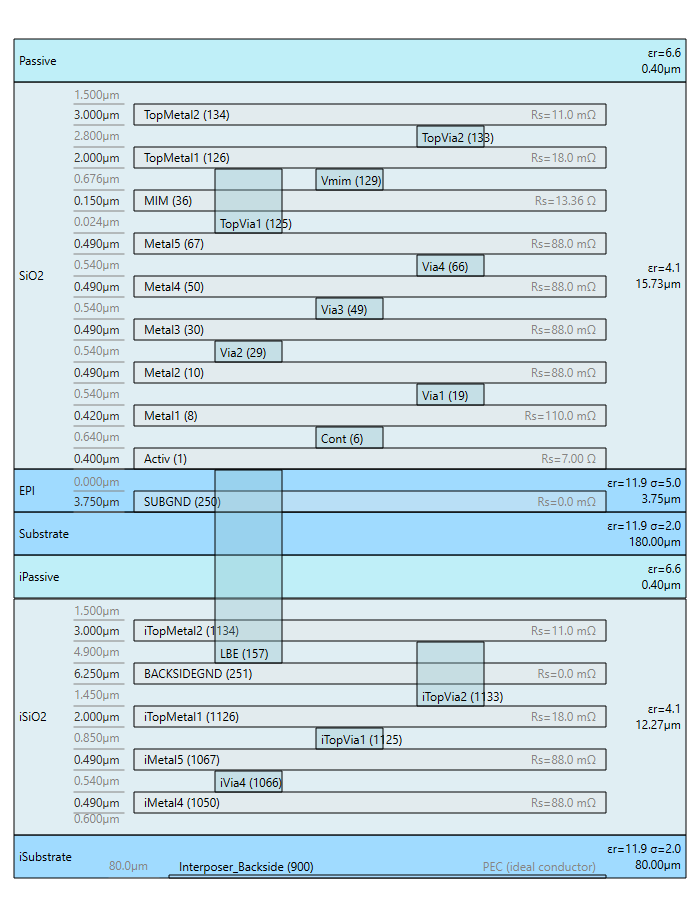
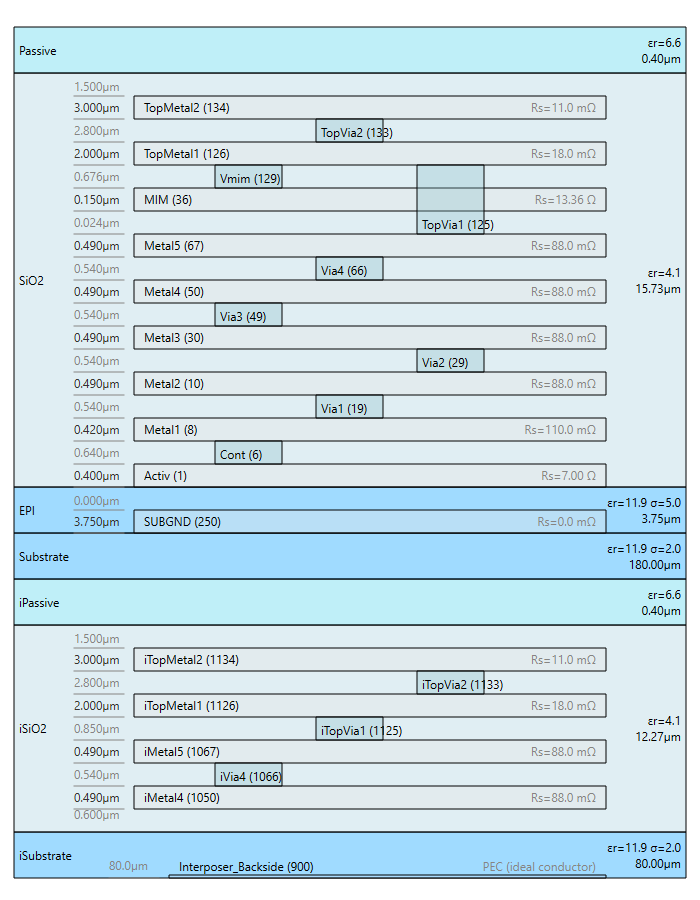
Anchor connection stacks to real pad metal, not the attach Dielectric's edge
A connection_stack's declared total height (from interconnect_methods.json)
is a pad-to-pad bump/pillar measurement, not a dielectric-surface-to-
dielectric-surface gap. Anchoring the via chain to --attach's own Dielectric
edge silently overstated the true gap by however thick each side's
passivation is (1.9 um on each side, in this repo's own examples).

compose() now finds the interposer's own topmost non-sheet metal and the
die's own bottommost non-sheet metal (after AIR-stripping/flip), and
extends only the via chain's own two outer Zmin/Zmax past the bondline's
own Bottom/Top to reach them - the bondline Dielectric and the die's own
first Dielectric are left untouched, since shifting either of those would
create a Dielectric-vs-Dielectric overlap find_z_overlaps() would flag. A
via overlapping a neighboring Dielectric is normal (same as any other via
embedded in its surrounding Dielectric).

Also removes SG13G2_die.xml's BACKSIDEGND/LBE layers: BACKSIDEGND used a
negative Zmin relative to Substrate's own Bottom edge that only made sense
in the die's own standalone frame (free space below the chip) - once
merged, Substrate's own Bottom becomes the attach interface, so
BACKSIDEGND ended up 6.25 um inside the interposer's own iPassive/iSiO2.
LBE existed only to connect to BACKSIDEGND, so it goes too.

Regenerated all three examples and their preview images.

diff --git a/src/chiplet_xml_composer/composer.py b/src/chiplet_xml_composer/composer.py
@@ -459,6 +459,35 @@ def _load_connection_materials (path):
     raise ComposeError(f'Could not parse --connection-materials file "{path}": {e}')
 
 
+def _topmost_metal (metals_list, context):
+  """The non-sheet metal with the highest resolved zmax in metals_list - the real conductor
+     surface a connection_stack's lower end should anchor to (a Type="sheet" Layer is a
+     zero-thickness idealized boundary condition, e.g. a PEC backside ground plane, never a
+     real bond pad, so it's excluded even if it happens to be the outermost element).
+  Args:
+      metals_list (gds2palace.stackup_reader.metal_layers_list): already-resolved metals
+      context (string): human-readable description of metals_list's owner, for the error message
+  Returns:
+      gds2palace.stackup_reader.metal_layer
+  Raises:
+      ComposeError: metals_list has no non-sheet metal at all
+  """
+  candidates = [m for m in metals_list.metals if not m.is_sheet]
+  if not candidates:
+    raise ComposeError(f'{context} has no non-sheet metal Layer for a connection_stack to '
+                        f'anchor to')
+  return max(candidates, key=lambda m: m.zmax)
+
+
+def _bottommost_metal (metals_list, context):
+  """The non-sheet metal with the lowest resolved zmin in metals_list - see _topmost_metal()."""
+  candidates = [m for m in metals_list.metals if not m.is_sheet]
+  if not candidates:
+    raise ComposeError(f'{context} has no non-sheet metal Layer for a connection_stack to '
+                        f'anchor to')
+  return min(candidates, key=lambda m: m.zmin)
+
+
 def _ensure_connection_material (base_materials_el, renamer, connection_materials,
                                   added_material_names, material_name, context):
   """Add a <Material> element for material_name, sourced from --connection-materials, unless
@@ -597,6 +626,10 @@ def compose (chiplet_path, stackup_map, interconnect_methods_path=None,
   base_path = stackup_path_for(interposer_component)
   base_tree = ET.parse(base_path)
   base_root = base_tree.getroot()
+  # parsed once, before any die is appended below, so a connection_stack's lower anchor (see
+  # _topmost_metal() below) always resolves against the interposer's own original metals -
+  # never against a metal an earlier die in this same compose() run just added
+  _, base_dielectrics, base_metals = stackup_reader.parse_substrate(base_root)
 
   chip_roots_by_id = {}
   for die in die_components:
@@ -640,6 +673,11 @@ def compose (chiplet_path, stackup_map, interconnect_methods_path=None,
       pivot_z = max(d.zmax for d in chip_dielectrics.dielectrics)
       reverse_stackup_z_order(chip_dielectrics, chip_metals, pivot_z)
 
+    # sorted once here (not just where the Dielectrics loop used to do it) - the connection-stack
+    # anchor below and the Dielectrics loop further down both need "this chiplet's own bottommost
+    # Dielectric", and both must agree on which one that is
+    ordered_dielectrics = sorted(chip_dielectrics.dielectrics, key=lambda d: d.zmin)
+
     # ---- connection stack: bridging Dielectric + one real via Layer per bump/pillar layer ----
     connection_id = die.get("connection")
     current_reference = attach_point
@@ -669,24 +707,53 @@ def compose (chiplet_path, stackup_map, interconnect_methods_path=None,
         bondline_el.set("Thickness", f"{total_height:.4f}")
         bondline_el.set("Boundary", str(int(boundary_layer)))
 
-        # each via/pillar layer is embedded WITHIN the bondline dielectric's own z-range - it
-        # represents the conductor body inside that dielectric, not something stacked on top
-        # of it (same convention as e.g. interposer_SG13G2.xml's own TopMetal2, embedded in
-        # SiO2 via Reference="SiO2" ReferenceEdge="Bottom"). Referenced off the bondline's own
-        # Bottom edge rather than off attach_point directly - numerically identical (the
-        # bondline's own zmin IS attach_point's zmax), but this keeps the via's Reference
-        # chain inside the chiplet's own subtree, so detect_chiplet_groups() scopes it to this
-        # chiplet instead of unconditionally treating it as interposer (see that function's
-        # docstring: a Layer referencing an interposer Dielectric directly is always
-        # interposer-scoped, regardless of where it physically sits)
+        # A connection_stack's declared total height is a pad-to-pad bump/pillar height, not a
+        # dielectric-surface-to-dielectric-surface gap - the via/pillar metal itself must reach
+        # the real conductor surface on each side, not just span the bondline's own nominal
+        # extent. Any passivation (or other dielectric) sitting between --attach's own Dielectric
+        # edge and the real pad metal is bridged by extending the via chain's own two outer ends
+        # past the bondline's own Bottom/Top - overlapping into the neighboring Dielectric on
+        # each side, same as any other via/metal embedded inside its surrounding Dielectric (see
+        # find_z_overlaps(), which only flags two overlapping DIELECTRICS, never a Layer
+        # overlapping one - a via reaching past its own bondline into the next Dielectric over is
+        # exactly as normal as iTopMetal2 sitting embedded inside iSiO2). The bondline Dielectric
+        # itself, and the die's own first Dielectric right above it, are deliberately left
+        # untouched - shifting either of *those* would create exactly the Dielectric-vs-Dielectric
+        # overlap find_z_overlaps() exists to catch. See
+        # HOW_IT_WORKS.md#connection-stack-pad-to-pad-anchoring.
+        attach_dielectric = base_dielectrics.get_by_name(attach_point)
+        if attach_dielectric is None:
+          raise ComposeError(
+              f'Component "{component_id}"\'s --attach target "{attach_point}" is not a '
+              f'Dielectric in the interposer\'s own stackup')
+        interposer_top_metal = _topmost_metal(base_metals, 'the interposer')
+        chip_bottom_metal = _bottommost_metal(
+            chip_metals, f'component "{component_id}"\'s own stackup')
+        gap_below_attach = attach_dielectric.zmax - interposer_top_metal.zmax
+        metal_offset_in_die = chip_bottom_metal.zmin - ordered_dielectrics[0].zmin
+
+        # each via/pillar layer is embedded WITHIN the bondline dielectric's own z-range, same
+        # convention as e.g. interposer_SG13G2.xml's own TopMetal2, embedded in SiO2 via
+        # Reference="SiO2" ReferenceEdge="Bottom" - except the very first layer's own Zmin and
+        # the very last layer's own Zmax are pulled past the bondline's own Bottom/Top by
+        # gap_below_attach/metal_offset_in_die respectively, to reach the real pad metal on each
+        # side. Referenced off the bondline's own Bottom edge rather than off attach_point
+        # directly - numerically identical (the bondline's own zmin IS attach_point's zmax), but
+        # this keeps the via's Reference chain inside the chiplet's own subtree, so
+        # detect_chiplet_groups() scopes it to this chiplet instead of unconditionally treating
+        # it as interposer (see that function's docstring: a Layer referencing an interposer
+        # Dielectric directly is always interposer-scoped, regardless of where it physically sits)
         via_offset_zmin = 0.0
-        for layer in stack_layers:
+        for i, layer in enumerate(stack_layers):
           _ensure_connection_material(
               base_materials_el, renamer, connection_materials, added_connection_material_names,
               layer["material"],
               f'connection_stack layer "{layer["name"]}" (method "{connection_id}")')
           via_name = _unique_name(renamer.layer_names, f"{component_id}_{layer['name']}")
           renamer.layer_names.add(via_name)
+          via_zmin = via_offset_zmin - (gap_below_attach if i == 0 else 0.0)
+          via_offset_zmin += layer["height"]
+          via_zmax = via_offset_zmin + (metal_offset_in_die if i == len(stack_layers) - 1 else 0.0)
           via_el = ET.SubElement(base_layers_el, "Layer")
           via_el.set("Name", via_name)
           via_el.set("Type", "VIA")
@@ -694,9 +761,8 @@ def compose (chiplet_path, stackup_map, interconnect_methods_path=None,
           via_el.set("Layer", str(layer["gds_layer"]))
           via_el.set("Reference", bondline_name)
           via_el.set("ReferenceEdge", "Bottom")
-          via_el.set("Zmin", f"{via_offset_zmin:.4f}")
-          via_el.set("Zmax", f"{via_offset_zmin + layer['height']:.4f}")
-          via_offset_zmin += layer["height"]
+          via_el.set("Zmin", f"{via_zmin:.4f}")
+          via_el.set("Zmax", f"{via_zmax:.4f}")
 
         current_reference = bondline_name
         current_edge = "Top"
@@ -716,7 +782,6 @@ def compose (chiplet_path, stackup_map, interconnect_methods_path=None,
     #      merge_chiplet_stackup.py's own approach, rather than trying to preserve/rewrite the
     #      chiplet's original Reference graph, which strip_outer_air_dielectrics()/
     #      reverse_stackup_z_order() only maintain at the resolved-object level ----
-    ordered_dielectrics = sorted(chip_dielectrics.dielectrics, key=lambda d: d.zmin)
     dielectric_new_names = {}
     for dielectric in ordered_dielectrics:
       new_name = renamer.rename_dielectric(dielectric.name)

diff --git a/doc/HOW_IT_WORKS.md b/doc/HOW_IT_WORKS.md
@@ -68,6 +68,12 @@ Here is what happens for each die:
    ReferenceEdge="Bottom"`. A bump or pillar physically sits inside its surrounding underfill,
    not above it.
 
+   The via chain's own two outer ends reach past the bondline's own Bottom/Top, into whichever
+   Dielectric sits on the other side - down into the interposer's own outer passivation, and up
+   into the die's own outer passivation - so the via actually touches the real pad metal on each
+   side, not just the passivation surface. See
+   [Connection-stack pad-to-pad anchoring](#connection-stack-pad-to-pad-anchoring).
+
    Neither the bondline's material nor any via layer's material can come from a `--stackup`
    input file. A bump or pillar material, and the material bonding it in place, aren't
    physically part of either the interposer's or the die's own stackup - so this tool never
@@ -75,9 +81,9 @@ Here is what happens for each die:
    new `<Material>` element the first time each name is needed in this `compose()` run. See
    [Connection-material sourcing and deduplication](#connection-material-sourcing-and-deduplication).
 
-   Each via is `Reference`d off the bondline's own Bottom edge. This is numerically identical
-   to referencing the attach point's Top edge directly, since the bondline's `zmin` is the
-   attach point's `zmax`. The reason for going through the bondline is that it keeps the via's
+   Each via is `Reference`d off the bondline's own Bottom edge. Its `Zmin=`/`Zmax=` are no
+   longer simply `0` and the bondline's own thickness, though - see the next section. Going
+   through the bondline (rather than referencing the attach point directly) keeps the via's
    Reference chain inside the chiplet's own subtree. See
    [Chiplet detection: branch points, not just attachments](#chiplet-detection-branch-points-not-just-attachments)
    for why that distinction matters.
@@ -143,6 +149,59 @@ Mirroring around that surface has a useful side effect. The die's own first rema
 Dielectric lands with its `zmin` exactly at the pivot. In the `SG13G2_die.xml` fixture, that
 Dielectric is `Passive`. It is then ready to Reference-chain directly onto the bondline, with
 zero extra offset arithmetic.
+
+### Connection-stack pad-to-pad anchoring
+
+A `connection_stack`'s declared total height - the sum of every layer's `height`, from
+`interconnect_methods.json` - is a real bump/pillar height. It's a pad-to-pad measurement: the
+distance a real Cu-pillar or solder bump actually stands between two metal pads. It is not the
+distance between the interposer's own `--attach` Dielectric edge and the die's own outermost
+Dielectric edge - a real stackup almost always has some passivation, or other dielectric,
+between an outer Dielectric edge and the actual metal pad underneath it. `interposer_IntM4TM2.xml`
+has 0.4 µm of `iPassive` sitting on top of `iTopMetal2`, for example.
+
+Treating the connection stack's height as if it spanned dielectric-edge to dielectric-edge would
+silently overstate the real gap by however thick each side's passivation is - 1.9 µm too much on
+each side, in this repo's own examples (0.4 µm of `iPassive`, plus a further 1.5 µm of `iSiO2`
+above `iTopMetal2`, on the interposer side; a matching 0.4 µm of `Passive` plus 1.5 µm of `SiO2`
+above `TopMetal2` on the die side, once flipped). So `compose()` anchors the via chain to the
+real pad metal on each side instead:
+
+- **The interposer's own topmost metal** - the non-sheet `Layer` with the highest resolved
+  `zmax`, among the interposer's own metals only (never a metal an earlier die in this same
+  `compose()` run already added - see the note on `base_metals` below).
+- **The die's own bottommost metal** - the non-sheet `Layer` with the lowest resolved `zmin`,
+  among this die's own metals, after AIR-stripping and any flip-chip reversal.
+
+A `Type="sheet"` Layer (a zero-thickness idealized boundary condition, e.g. a PEC ground plane)
+is excluded from both searches - it's never a real bond pad, even if it happens to be the
+outermost element.
+
+The bondline Dielectric itself, and the die's own first Dielectric right above it, are left
+completely alone - still `Reference`d with a plain `Thickness=`, exactly as if no passivation
+existed. Only the via chain's own two outer ends move:
+
+- The first via layer's `Zmin=` is pulled down by `attach_dielectric.zmax - interposer_top_metal.zmax`
+  (the interposer-side passivation depth) - past the bondline's own `Bottom` edge, into whichever
+  Dielectric sits below `--attach`'s target.
+- The last via layer's `Zmax=` is pushed up by `chip_bottom_metal.zmin - chip_first_dielectric.zmin`
+  (the die-side passivation depth) - past the bondline's own `Top` edge, into the die's own first
+  Dielectric.
+
+This means the via now overlaps, in z, with a Dielectric other than the bondline it's
+`Reference`d to. That's not a conflict - a via/metal Layer embedded inside its surrounding
+Dielectric is the normal case throughout this whole file format (`iTopMetal2` sits embedded
+inside `iSiO2` the same way). `find_z_overlaps()` only ever flags two **Dielectrics** whose
+resolved z-ranges overlap, never a Layer overlapping one - which is exactly why the bondline and
+the die's own first Dielectric are left unshifted: shifting either of *those* instead would
+create precisely the Dielectric-vs-Dielectric overlap `find_z_overlaps()` exists to catch. See
+[Built-in post-write verification](#built-in-post-write-verification).
+
+`base_metals` - the interposer's own materials/dielectrics/metals - is parsed once, from the
+interposer's own stackup XML, before any die is processed. Every die's own connection stack
+anchors to that same, original parse, never to a metal an earlier die in a multi-die assembly
+(like this repo's example 3) already added - two dies attached to the same interposer Dielectric
+both anchor to the same real interposer pad, independent of `.chiplet` component order.
 
 ### Name/GDS-layer collision avoidance
 
@@ -278,8 +337,16 @@ tracing an unexpected output back to a specific step):
 
 ```
 parse interposer stackup XML -> base_root
+(base_materials, base_dielectrics, base_metals) = parse_substrate(base_root)
+    # parsed once, before any die is processed - every die's own connection stack anchors to
+    # this same original parse, never to a metal an earlier die in this run already added
 renamer = NameRenamer(base_root)   # seeds name sets + used GDS layers from base_root
 added_connection_material_names = {}   # shared across every die in this compose() run
+
+# topmost_metal(metals)/bottommost_metal(metals), called below:
+#   candidates = [m for m in metals.metals if not m.is_sheet]   # Type="sheet" is never a real pad
+#   raise ComposeError if candidates is empty
+#   return max(candidates, key=zmax) / min(candidates, key=zmin)
 
 # ensure_connection_material(name), called below:
 #   if name in added_connection_material_names: return          # already synthesized, reuse it
@@ -317,13 +384,26 @@ for each die component (in .chiplet components[] order):
             bondline = new Dielectric(Reference=current_ref, ReferenceEdge="Top",
                                        Thickness=total_height, Boundary=boundary,
                                        Material=bondline_material)
+            # pad-to-pad anchoring: the via chain's own two outer ends reach past the bondline
+            # itself, into the real pad metal on each side - see HOW_IT_WORKS.md's own
+            # "Connection-stack pad-to-pad anchoring" section for the physical reasoning. Neither
+            # the bondline nor the die's own first Dielectric (below) is ever shifted - only the
+            # via Layers move, since a Layer overlapping a neighboring Dielectric is normal, but
+            # two Dielectrics overlapping is exactly what find_z_overlaps() flags.
+            attach_dielectric = base_dielectrics.get_by_name(current_ref)  # ComposeError if None
+            interposer_top_metal = topmost_metal(base_metals)              # excludes Type="sheet"
+            chip_bottom_metal = bottommost_metal(metals)                   # this die's own, post-flip
+            gap_below_attach = attach_dielectric.zmax - interposer_top_metal.zmax
+            metal_offset_in_die = chip_bottom_metal.zmin - min(dielectrics.dielectrics, key=zmin).zmin
+
             offset = 0
-            for layer in stack:
+            for i, layer in enumerate(stack):
                 ensure_connection_material(layer.material)   # see below
-                new Layer(Type="VIA", Material=layer.material, Layer=layer.gds_layer,
-                          Reference=bondline, ReferenceEdge="Bottom",
-                          Zmin=offset, Zmax=offset+layer.height)
+                zmin = offset - (gap_below_attach if i == 0 else 0)
                 offset += layer.height
+                zmax = offset + (metal_offset_in_die if i == len(stack) - 1 else 0)
+                new Layer(Type="VIA", Material=layer.material, Layer=layer.gds_layer,
+                          Reference=bondline, ReferenceEdge="Bottom", Zmin=zmin, Zmax=zmax)
             current_ref, current_edge = bondline, "Top"
 
     copy every <Material> from chip_root -> base_root, renaming on collision
@@ -358,6 +438,7 @@ return base_root (as an ElementTree)
 | `flip_chip` handling | `strip_outer_air_dielectrics()` returned `[]` (no AIR found to expose a pivot) |
 | `connection:` resolution | `die.connection` not in `interconnect_methods["methods"]`, or a `connection_stack` layer name not in `interconnect_methods["layer_registry"]` |
 | Bondline construction | `total_height > 0` and `boundary_layer_map` has no entry for `component.id` |
+| Pad-to-pad anchor lookup | `--attach`'s target isn't a real `<Dielectric>` in the interposer's own stackup, or either `topmost_metal()`/`bottommost_metal()` finds zero non-sheet metals in the interposer's or this die's own stackup |
 | Connection-material check (bondline and each via layer) | the named material has no entry in `connection_materials["materials"]`, or it collides with a same-named `<Material>` already present from a `--stackup` input |
 | `--connection-materials` requirement (once, before the loop) | any component declares a non-empty `connection` and `--connection-materials` was not given |
 | Component selection (once, before the loop) | `components[]` has zero or 2+ entries with `type == "interposer"` |

diff --git a/doc/USAGE.md b/doc/USAGE.md
@@ -278,7 +278,13 @@ to see the result. Bottom to top, right above the interposer's own `iPassive`, y
 - `die1_bondline`, a new 44 um `Underfill` Dielectric, carrying `Boundary="2000"` from
   `--boundary-layer`. This is the interconnect stack's total height: 28 + 16 um.
 - `die1_CuPillar` and `die1_SnAgCap`, two new `<Layer Type="VIA">` elements, on GDS layers 500
-  and 501. Both are embedded within `die1_bondline`'s own z-range, not stacked above it.
+  and 501. Their combined z-range is *wider* than `die1_bondline`'s own 44 um: `die1_CuPillar`'s
+  own `Zmin` reaches 1.9 um below the bondline's own bottom edge, down to `iTopMetal2`'s own top
+  surface, and `die1_SnAgCap`'s own `Zmax` reaches 1.9 um above the bondline's own top edge, up to
+  `TopMetal2`'s own bottom surface (once flipped). A bump's declared height is a pad-to-pad
+  measurement, not a dielectric-surface-to-dielectric-surface one - see
+  [`HOW_IT_WORKS.md`](HOW_IT_WORKS.md#connection-stack-pad-to-pad-anchoring) for why, and open the
+  picture below to see the via visibly crossing into `iSiO2` below and `SiO2` above.
 - In `<Materials>`, one new `Underfill`, `CuPillar`, and `SnAgSolder` entry each - synthesized
   from `connection_materials.json`, with the properties shown above. Neither
   `interposer_IntM4TM2.xml` nor `SG13G2_die.xml` defines any of these three.
@@ -436,6 +442,14 @@ with status 1. Each message names exactly what's missing:
   `--boundary-layer X=<gds-layer-number>`. This is only required when the resolved
   `connection_stack` has nonzero total height. A direct, zero-height bond needs no bondline and
   no boundary layer.
+- `"Component "X"'s --attach target "Y" is not a Dielectric in the interposer's own stackup"` -
+  a connection stack anchors to the interposer's own topmost metal, which means it needs
+  `--attach`'s own target to be a real `<Dielectric Name="Y">` there - not a typo, and not a
+  Layer name. See [`HOW_IT_WORKS.md`](HOW_IT_WORKS.md#connection-stack-pad-to-pad-anchoring).
+- `"... has no non-sheet metal Layer for a connection_stack to anchor to"` - a connection stack
+  needs a real conductor `<Layer>` (not a `Type="sheet"` one) somewhere in the interposer's own
+  stackup, and a real conductor `<Layer>` somewhere in this die's own stackup, to anchor its two
+  outer ends to. Add one, or don't use `connection:` for a component whose stackup has none.
 - `"Material "X" ... has no entry in this --connection-materials file's "materials" map"` -
   `chiplet_xml_composer` never invents electrical or thermal material properties. Add a
   `"X": {"type": "Conductor", "conductivity": ...}` (or `"Dielectric"`/`"permittivity"`) entry
@@ -490,7 +504,11 @@ decision procedure.
      path (see step 6) under the same condition. If the resolved `connection_stack` has nonzero
      total height, that die also needs `--boundary-layer COMPONENT_ID=<gds-layer-number>` - a
      value that must come from the caller (nothing in either input file names it; see
-     [`CHIPLET_FORMAT.md`](CHIPLET_FORMAT.md#not-read-missing-information) for why).
+     [`CHIPLET_FORMAT.md`](CHIPLET_FORMAT.md#not-read-missing-information) for why). A nonzero
+     total height also needs a real, non-`Type="sheet"` conductor `<Layer>` somewhere in the
+     interposer's own stackup, and another in this die's own stackup - the connection stack
+     anchors its two outer ends to the real pad metal on each side, not to a Dielectric edge.
+     See [`HOW_IT_WORKS.md`](HOW_IT_WORKS.md#connection-stack-pad-to-pad-anchoring).
 5. **Check `orientation:`** on each die. `flip_chip` requires that die's own stackup XML to have
    an outer `AIR` Dielectric (topmost or bottommost by resolved z) - if you can, verify this by
    reading the die's stackup XML directly (look for a `<Dielectric ... Material="AIR" />` or one
